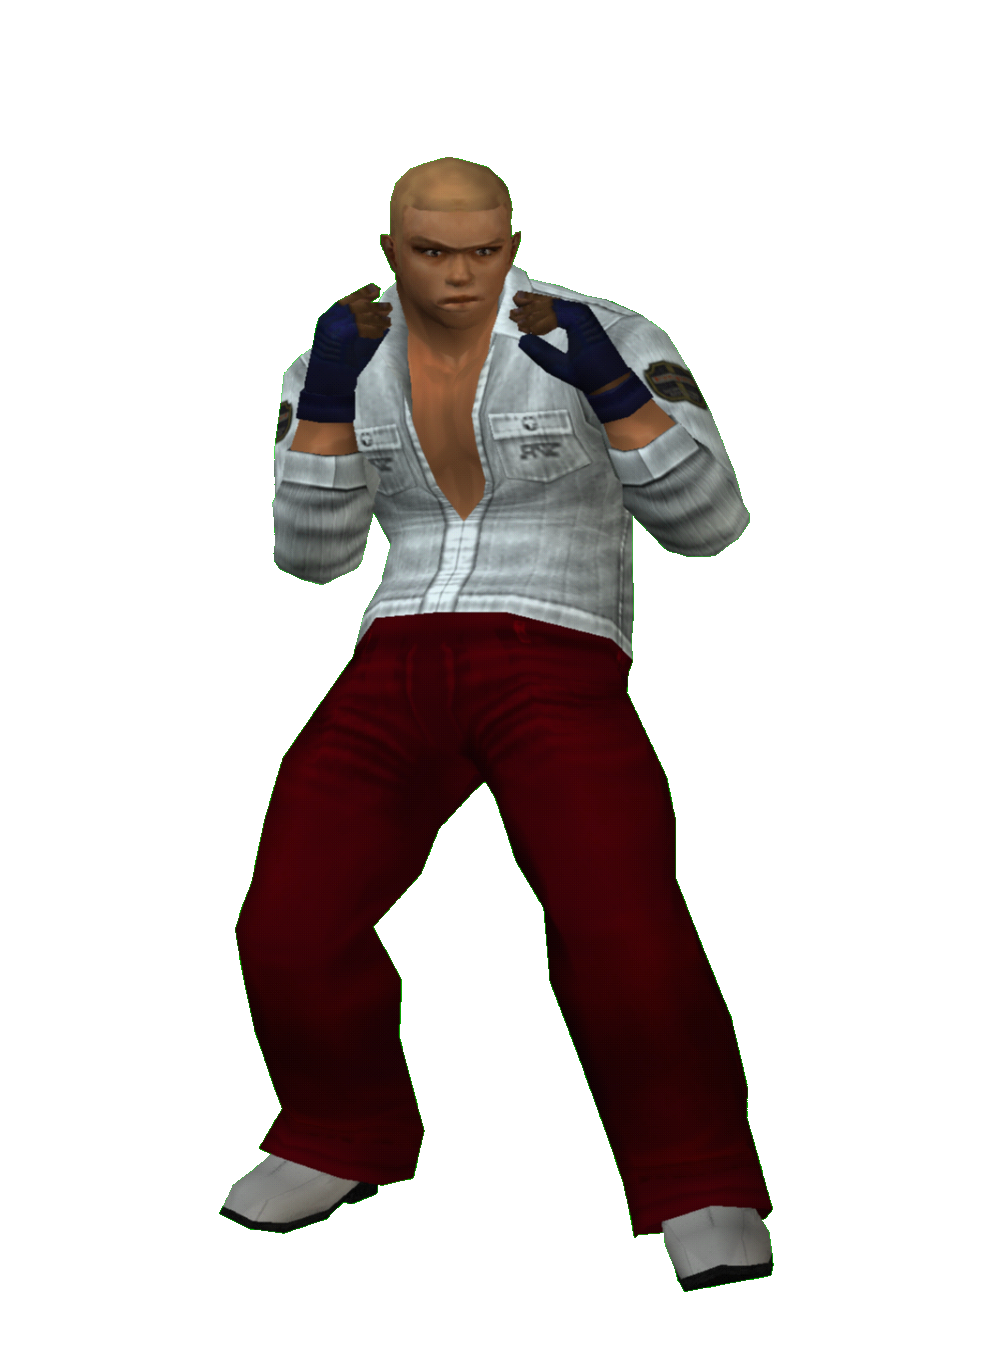
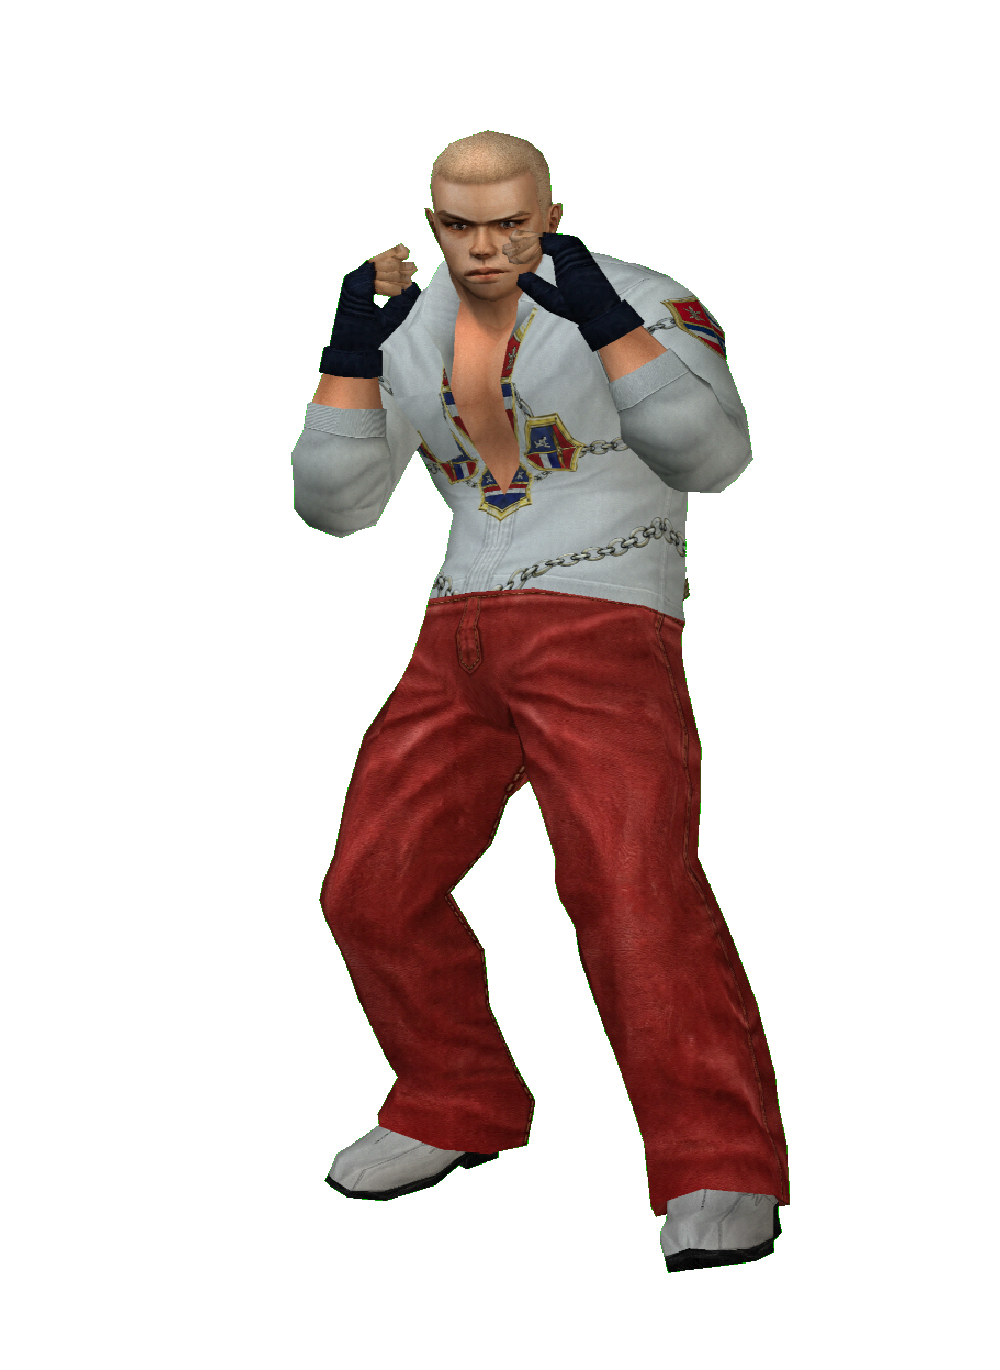
-fixed old skins

Changed region(s): [[0.217, 0.092, 0.806, 0.9504]]

diff --git a/Views/TextureView.xaml b/Views/TextureView.xaml
@@ -4542,7 +4542,7 @@
                    FontSize="32"
                    TextWrapping="WrapWithOverflow"
                    Foreground="Gold"
-                   Text="Steve Fox"
+                   Text="Steve Fox (Grave Digga')"
                    Margin="0,0,0,0"
                    MouseEnter="SkinPreview210"/>
 
@@ -4620,7 +4620,7 @@
                    FontSize="32"
                    TextWrapping="WrapWithOverflow"
                    Foreground="Gold"
-                   Text="Seu Madruga (Miguel)"
+                   Text="Seu Madruga (Ramon)"
                    Margin="0,0,0,0"
                    MouseEnter="SkinPreview213"/>
 

diff --git a/ViewModels/TextureViewModel.cs b/ViewModels/TextureViewModel.cs
@@ -6949,7 +6949,7 @@ namespace UR_pnach_editor.ViewModels
                     ReplaceTextures(@"\_steve fox grave\", "", "",
                         "5d9dab9b4da19b58-bb1042078bd02a19-r64x64-00002a93", "6a57ea379978e090-dc44ef25ac37ebf6-r64x128-00002a93",
                         "41c464d85a0f616f-6efe8135d2d1d98d-r128x128-00002a93", "128fc47272dbafac-326729d4dff109eb-r256x256-00002a93",
-                        "8778633eb34cad7e-9f406c9beab8482c-r256x256-00002a93", "ab8482c-r256x256-00002a93",
+                        "", "",
                         "b962788607137dc5-976602852e5db24c-r64x128-00002a93", "",
                         "", "",
                         "", "",
@@ -8266,7 +8266,7 @@ namespace UR_pnach_editor.ViewModels
                         "854d32a17ad71bd5-503b62eaff159fa9-r128x128-00002a93", "647238311528bdd8-69257ba70cb1b598-r128x128-00002a93",
                         "b33cfcfbb6c2eed-bf42ce9e6478c707-r256x256-00002a93", "c651823a32cbe911-495b1d4e7f137e3f-r64x64-00002a93",
                         "cb1b8f54b36f5f35-c76526accdb5253-r64x16-00002a93", "",
-                        "", "",
+                        "2da2203d39a74446-3511f0037a4ef3d6-r64x64-00002a93", "ecf59619d0b8b35-4303fe8f71a49215-r128x128-00002a93",
                         "", "",
                         "", "",
                         "", "");
